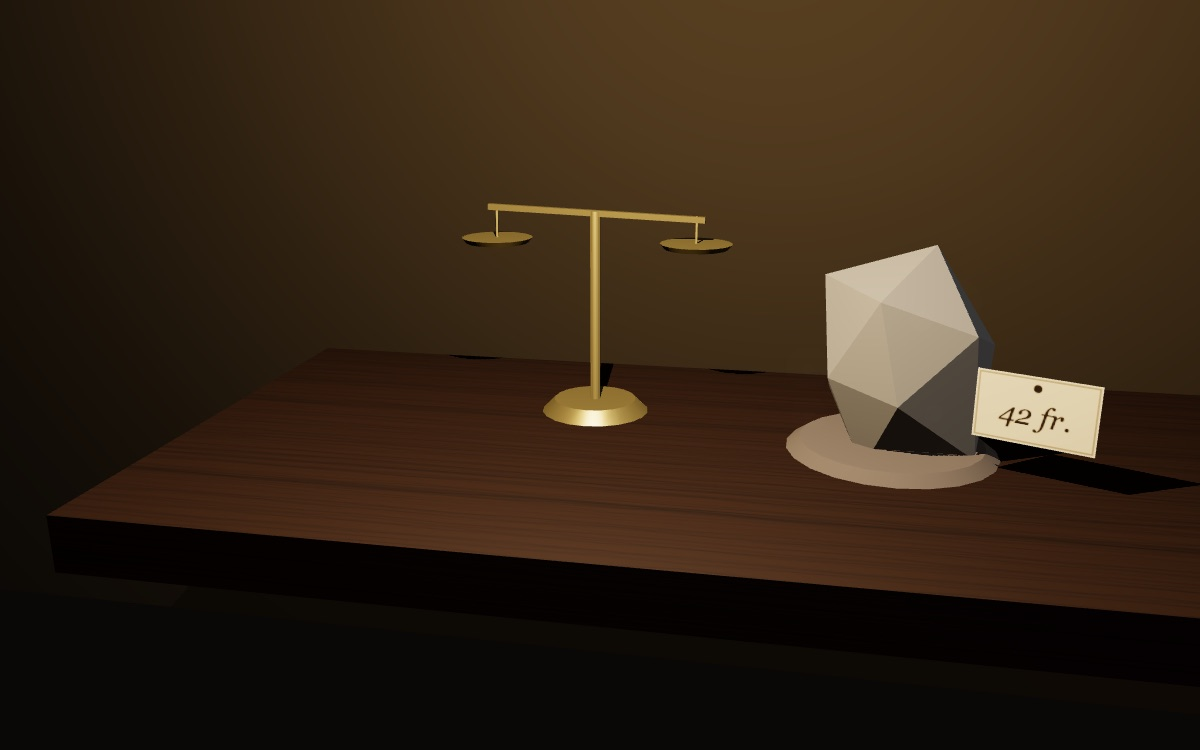
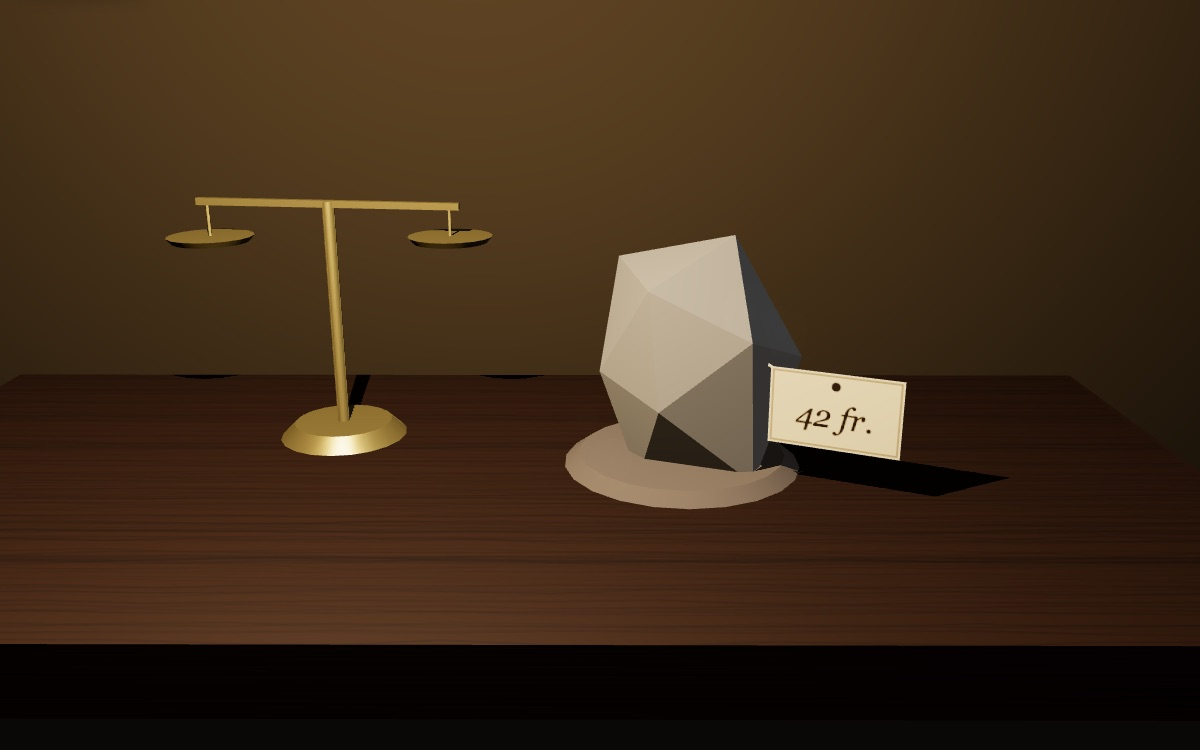
Glossaire : propriete-privee réécrite selon la charte, direction artistique « le mont-de-piété »

diff --git a/glossaire/mondes/propriete-privee/essai.html b/glossaire/mondes/propriete-privee/essai.html
@@ -1,48 +1,80 @@
-<!-- L'ESSAI — le corps de /glossaire/propriete-privee.
-     ⚠ AUCUNE CITATION LIÉE, comme pour /glossaire/argent : la traduction
-     des Manuscrits que ce site sert est celle d'Émile Bottigelli, protégée
-     jusqu'en 2046. Le texte est PARAPHRASÉ et situé, jamais cité entre
-     guillemets. -->
+<!-- L'ESSAI : le corps de /glossaire/propriete-privee.
+     Réécrit en octobre 2026 selon glossaire/mondes/CHARTE.md.
+     AUCUNE CITATION LIÉE : la traduction Bottigelli des Manuscrits est
+     protégée jusqu'en 2046. Le premier et le troisième manuscrit sont
+     PARAPHRASÉS et situés, jamais cités entre guillemets. Les data-etape et
+     les id des sections ne changent pas : la scène lit les premiers, les
+     liens et la recherche les seconds. -->
 
 <section class="nt-sec" data-etape="fait" id="fait">
-<h2>Un fait dont personne ne rend compte</h2>
-<p>Les <i>Manuscrits de 1844</i> s'ouvrent sur un reproche adressé à l'économie politique, et ce reproche est le ressort de tout le cahier. Elle part de la propriété privée&nbsp;: elle en décrit les effets, elle en calcule les lois, elle en tire le salaire, le profit et la rente. Mais elle ne l'explique pas. Elle la pose comme un fait, comme on pose une donnée de la nature, et lorsqu'on lui demande d'où elle vient, elle raconte une histoire — un état originaire, une industrie primitive, une convention — au lieu de l'analyser.</p>
-<p>Marx relève que ce défaut n'est pas accidentel&nbsp;: en admettant la propriété privée comme un présupposé, l'économie politique se prive du moyen de comprendre les rapports dont elle traite, puisque tous en découlent. Elle décrit ainsi les lois de l'enrichissement et de l'appauvrissement sans pouvoir dire pourquoi l'ouvrier devient d'autant plus pauvre qu'il produit plus de richesse&nbsp;; elle constate le fait, elle en fait même sa loi la plus générale, et elle le laisse inexpliqué.</p>
-<p>La démarche de Marx consiste alors à faire ce que personne ne fait&nbsp;: chercher la genèse de la propriété privée dans le rapport que l'économie politique décrit sans l'interroger — le rapport de l'ouvrier à ce qu'il produit. C'est de cette recherche que sort le <a href="/glossaire/travail-aliene">travail aliéné</a>, et c'est de lui que sortira la réponse.</p>
+<h2>Que reproche Marx à l'économie politique&nbsp;?</h2>
+<p class="nt-lead">De partir de la propriété privée sans l'expliquer. Elle en décrit les lois, mais elle la tient pour un fait donné, qu'on n'aurait pas à comprendre.</p>
+<p>Les <i>Manuscrits de 1844</i> sont des cahiers que Marx rédige à Paris en lisant les économistes, Adam Smith en tête. Ils sont restés inédits jusqu'en 1932. Le premier manuscrit est d'abord un relevé&nbsp;: Marx y suit, sur des colonnes parallèles, ce que l'économie politique dit du salaire, du profit du capital et de la rente foncière. Puis, à la fin du cahier, il change de ton. L'économie politique, écrit-il en substance, part du fait de la propriété privée et ne nous l'explique pas. Elle exprime en formules générales ce qui se passe sous ce régime, et ces formules deviennent pour elle des lois&nbsp;; mais elle ne montre pas comment ces lois découlent de la nature même de la propriété privée.</p>
+<p>Le verbe que le traducteur signale en note est <i lang="de">begreifen</i>, saisir dans son concept. L'économie politique décrit sans concevoir. Elle sait que le salaire baisse quand les ouvriers se font concurrence, que les gros capitaux ruinent les petits, que la société finit par se diviser en propriétaires et en ouvriers sans propriété. Elle ne dit pas pourquoi le travail et le capital sont séparés au départ.</p>
+<p>Quand on la presse sur l'origine, elle raconte une histoire. Elle imagine un état originel où l'échange et la division du travail seraient déjà là, et ce récit repousse la question au lieu d'y répondre. Marx compare ce procédé à celui du théologien qui explique le mal par le péché originel&nbsp;: on suppose comme un fait, sous la forme d'un événement passé, ce qu'il fallait expliquer.</p>
+<p>Marx choisit l'autre voie. Il part d'un fait présent, que l'économie politique constate elle-même&nbsp;: l'ouvrier devient d'autant plus pauvre qu'il produit plus de richesse. Ce fait concerne le rapport de l'ouvrier à ce qu'il produit, et c'est dans ce rapport que Marx va chercher la genèse de la propriété privée. Son analyse porte le nom de <a href="/glossaire/travail-aliene">travail aliéné</a>, et la réponse à la question de l'origine en sort.</p>
 </section>
 
 <section class="nt-sec" data-etape="renversement" id="renversement">
-<h2>Le renversement&nbsp;: elle est le produit, non la cause</h2>
-<p>La proposition qui fait de ces cahiers autre chose qu'une critique morale du capitalisme tient en une phrase, et il faut en peser chaque terme&nbsp;: la propriété privée n'est pas la cause du travail aliéné, elle en est la conséquence. On a d'abord un rapport — celui d'un homme à son activité et à son produit, où l'un et l'autre lui deviennent étrangers — et la propriété privée est la forme dans laquelle ce rapport s'exprime et se fixe.</p>
-<p>Marx éclaire ce renversement par une comparaison qu'il faut restituer, car elle dit tout&nbsp;: les dieux ne sont pas à l'origine de l'égarement de l'esprit humain, ils en sont l'effet, quoiqu'ils deviennent ensuite une cause à leur tour. Il en va de même ici. La propriété privée apparaît comme la conséquence du travail aliéné&nbsp;; puis, une fois posée, elle agit sur lui, le reproduit et le renforce. Le rapport est donc réciproque, et c'est ce qui le rend difficile à voir&nbsp;: quand on entre dans un cercle en marche, chaque terme paraît expliqué par l'autre.</p>
-<p>L'enjeu de ce renversement dépasse de loin l'érudition. S'il est juste, alors la propriété privée n'est pas ce qu'il faut abolir en premier lieu comme si tout en dépendait&nbsp;: elle est le symptôme d'un rapport de production, et c'est ce rapport qu'il faut transformer. Marx en tire immédiatement une conséquence politique qu'il formule sans détour&nbsp;: c'est de l'émancipation des travailleurs que dépend l'émancipation générale, non parce qu'ils seraient plus dignes, mais parce que toute la servitude humaine est impliquée dans leur rapport à la production.</p>
+<h2>La propriété privée est-elle la cause du travail aliéné, ou son effet&nbsp;?</h2>
+<p class="nt-lead">Son effet d'abord. Marx soutient que la propriété privée résulte du travail aliéné, puis qu'une fois posée elle devient le moyen par lequel le travail continue de s'aliéner.</p>
+<p>L'analyse du travail aliéné établit que le produit de l'ouvrier lui échappe, que son activité ne lui appartient pas et qu'elle profite à un autre. Marx en tire une conclusion sur la propriété privée. Celle-ci, qui a l'air d'être la cause de cette situation, en est plutôt la conséquence. Il y a d'abord un rapport, celui d'un homme à son travail et à ce qu'il produit&nbsp;; la propriété privée est la forme dans laquelle ce rapport se fixe et devient durable.</p>
+<p>Marx éclaire ce renversement par une comparaison avec la religion. Les dieux, dit-il, sont à l'origine l'effet de l'égarement de l'esprit humain, et non sa cause. Une fois installés, ils agissent pourtant sur les hommes, au point de sembler les gouverner. Il en va de même ici&nbsp;: le rapport entre propriété privée et travail aliéné devient plus tard une action réciproque. Au terme de son développement, la propriété privée laisse voir les deux faces de son secret. Elle est le produit du travail aliéné, et elle est aussi le moyen par lequel le travail s'aliène.</p>
+<p>Cette réciprocité explique qu'on se trompe si facilement. Quand on entre dans un cercle déjà en marche, chaque terme semble expliqué par l'autre, et l'on prend pour l'origine ce qui n'est qu'un relais. Marx en tire aussitôt des conséquences. Le salaire et la propriété privée ont la même source, puisque le salaire suppose un produit qui ne revient pas à celui qui l'a fait. Une hausse des salaires arrachée par la force ne ferait donc que mieux payer des esclaves&nbsp;; et l'égalité des salaires que réclamait Proudhon étendrait à tous le rapport de l'ouvrier actuel à son travail, sans le changer.</p>
+<p>Une conséquence politique suit. Si toute servitude est impliquée dans le rapport de l'ouvrier à la production, et si les autres rapports de servitude n'en sont que des variantes, alors l'émancipation des ouvriers n'est pas l'affaire d'une seule classe. Elle est la forme politique de l'émancipation universelle de l'homme.</p>
 </section>
 
 <section class="nt-sec" data-etape="avoir" id="avoir">
-<h2>La distinction qui fait le concept&nbsp;: le sens de l'avoir</h2>
-<p>Le troisième manuscrit reprend la question sur un autre terrain, et c'est là que le concept devient tangible. Marx y observe que la propriété privée nous a rendus si stupides et si bornés qu'un objet ne nous paraît nôtre que lorsque nous l'avons — qu'il existe pour nous comme capital, ou qu'il est directement mangé, bu, porté, habité, bref utilisé. Tous les sens physiques et intellectuels se trouvent remplacés par un seul&nbsp;: le sens de l'avoir.</p>
-<p>Il faut saisir ce que cette formule a de précis. Elle ne dit pas que les propriétaires sont avides&nbsp;; elle dit qu'un mode entier de rapport au monde s'est substitué à tous les autres. Voir, entendre, sentir, penser, aimer — chacune de ces manières d'être en relation avec un objet suppose une capacité déterminée et donne accès à quelque chose de déterminé. La possession, elle, ne suppose rien et ne donne accès qu'à une chose&nbsp;: le fait que l'objet soit à moi.</p>
-<p>Marx en donne un exemple qui a la vertu de rendre l'abstraction sensible, et que nous reprenons parce qu'il est le cœur de la page. Le marchand de minéraux, dit-il, ne voit pas la beauté ni la nature propre du minéral&nbsp;: il en voit la valeur marchande. Il a bien un œil pour la pierre, mais un œil qui ne perçoit d'elle qu'une grandeur. Ce n'est pas qu'il soit insensible&nbsp;; c'est que son rapport à l'objet est devenu celui d'un sens unique, et que ce sens ne connaît que des quantités.</p>
+<h2>Qu'est-ce que le «&nbsp;sens de l'avoir&nbsp;»&nbsp;?</h2>
+<p class="nt-lead">Un rapport au monde qui a remplacé tous les autres. Sous la propriété privée, un objet ne nous semble nôtre que lorsque nous le possédons ou que nous en usons.</p>
+<p>Le troisième manuscrit reprend la question sur un autre terrain, celui des sens. La propriété privée, dit Marx, nous a rendus si bornés qu'un objet n'est nôtre que si nous l'avons&nbsp;: s'il existe pour nous comme capital, ou s'il est possédé directement, mangé, bu, porté, habité. Même ces usages, la propriété privée ne les compte que comme des moyens de subsistance au service d'une vie qui est elle-même la sienne, faite de travail et d'accumulation. À la place de tous les sens physiques et intellectuels est apparue leur aliénation commune, le sens de l'avoir.</p>
+<p>La formule vise un mode de relation aux choses que chacun partage sous ce régime, avide ou non. Voir, entendre, goûter, penser, aimer&nbsp;: chacune de ces manières d'être en rapport avec un objet suppose une capacité, et chacune donne accès à quelque chose de cet objet. Le regard trouve une forme, l'oreille une musique. La possession ne suppose aucune capacité et ne donne accès qu'à une chose, le fait que l'objet soit à moi. Marx renvoie lui-même, entre parenthèses, à Moses Hess pour cette catégorie de l'avoir.</p>
+<p>La photographie en tête de page montre ce rapport à l'œuvre. Dans ce magasin du Mont-de-Piété de Paris, où l'on prêtait de l'argent contre un objet laissé en gage, une mandoline et des cuivres pendent à côté de parapluies et d'une bassinoire. Chacun porte une étiquette. Pour leurs propriétaires, ils étaient de la musique, de l'abri, de la chaleur&nbsp;; ici, ils ne sont plus que des avoirs, que rien ne distingue sinon leur montant.</p>
+<div class="nt-ex">
+<p class="nt-ex-t">Un exemple</p>
+<p>Marx donne lui-même le sien. Celui qui fait commerce de minéraux ne voit que leur valeur marchande. Il ne voit ni leur beauté ni leur nature propre&nbsp;: il n'a pas le sens minéralogique. Prenons un grenat dans ses mains. Il en estime le poids, la pureté, la rareté, et il en tire un prix. Ce qu'il en perçoit tient sur l'étiquette.</p>
+<p>Un minéralogiste voit autre chose dans la même pierre&nbsp;: la forme de son cristal, la manière dont elle se clive, la couleur qu'elle doit à sa composition. La planche ci-dessous, publiée en 1859, dessine chaque pierre à côté du schéma de son cristal. Le marchand n'est pas aveugle&nbsp;; il a un œil pour la pierre. Mais cet œil ne perçoit plus d'elle qu'une grandeur.</p>
+</div>
+<div data-planche="mineraux"></div>
 </section>
 
 <section class="nt-sec" data-etape="sens" id="sens">
-<h2>Le mécanisme&nbsp;: pourquoi un sens se forme, et pourquoi il se perd</h2>
-<p>La suite du raisonnement est peut-être ce que 1844 a de plus original, et elle explique pourquoi Marx tient l'appauvrissement des sens pour un fait objectif et non pour une plainte esthétique. Un sens, écrit-il en substance, ne se donne pas&nbsp;: il se forme. L'oreille musicale se fait par la musique&nbsp;; l'œil qui perçoit la beauté d'une forme se fait par les formes&nbsp;; la faim qui se satisfait de viande crue avec les mains n'est pas la même faim que celle qui se satisfait à table. Les cinq sens sont donc, dit-il, le produit de toute l'histoire humaine.</p>
-<p>Si les sens sont un produit, alors ils dépendent des rapports dans lesquels ils se forment, et ils peuvent aussi bien se développer que s'atrophier. Sous le règne de la propriété privée, le rapport aux objets est réduit à l'avoir&nbsp;; les capacités qui n'y servent pas ne se cultivent plus, et ce qui ne se cultive pas s'éteint. L'homme accablé de soucis, remarque Marx, n'a aucun sens pour le plus beau des spectacles&nbsp;: ce n'est pas qu'il refuse, c'est qu'il n'a plus l'organe.</p>
-<p>On aperçoit alors la portée du concept, qui n'est ni juridique ni économique au sens étroit. La propriété privée, comme rapport, ne se contente pas de distribuer des choses entre des personnes&nbsp;: elle façonne les personnes elles-mêmes en réduisant l'éventail des rapports qu'elles peuvent entretenir. C'est en ce sens que Marx écrit qu'elle nous a rendus stupides — le mot est fort, mais il est descriptif&nbsp;: un être qui n'a plus qu'un sens perçoit moins.</p>
+<h2>Pourquoi un sens peut-il s'appauvrir&nbsp;?</h2>
+<p class="nt-lead">Parce qu'un sens se forme au contact de ses objets. Marx tient la formation des cinq sens pour le travail de toute l'histoire passée, et ce qu'une histoire a formé, une autre peut le laisser dépérir.</p>
+<p>C'est ce qui permet à Marx de décrire l'appauvrissement des sens comme un fait. La musique, dit-il, éveille le sens musical&nbsp;: pour une oreille qui n'est pas musicienne, la plus belle musique n'a aucun sens. L'œil qui perçoit la beauté d'une forme s'est formé devant des formes. Cela vaut des cinq sens, et aussi de ce que Marx appelle les sens pratiques, comme la volonté ou l'amour. Aucun n'est donné tout fait&nbsp;; chacun naît de l'existence de son objet, dans une nature transformée par les hommes.</p>
+<p>Il en découle qu'un sens dépend des conditions dans lesquelles il s'exerce. Marx en donne trois cas, dans le même passage. Pour l'homme qui meurt de faim, la forme humaine de l'aliment n'existe pas&nbsp;: il mangerait la nourriture la plus grossière sans faire de différence. L'homme accablé de soucis et de besoins n'a pas de sens pour le plus beau spectacle. Le marchand de minéraux, enfin, ne voit que la valeur. Dans les trois cas, une nécessité extérieure réduit le rapport à l'objet à une seule dimension, et la capacité qui ne s'exerce plus s'efface.</p>
+<p>La propriété privée, comprise comme rapport, répartit donc des choses entre des personnes, et elle façonne aussi ces personnes, en réduisant l'éventail des rapports qu'elles peuvent avoir avec le monde. C'est en ce sens que Marx dit qu'elle nous a rendus bornés&nbsp;: le mot est dur, mais il décrit. Un être qui n'a plus qu'un sens perçoit moins.</p>
+<p>Marx ajoute pourtant une remarque qui interdit d'en faire une nostalgie. L'être humain, écrit-il, devait être réduit à cette pauvreté absolue pour tirer de lui-même sa richesse intérieure. L'appauvrissement est un moment d'un mouvement, et le texte ne regrette aucun âge d'or.</p>
 </section>
 
 <section class="nt-sec" data-etape="ouvre" id="ouvre">
-<h2>Ce que le concept ouvre&nbsp;: l'émancipation des sens</h2>
-<p>De ce diagnostic, Marx tire une définition de ce que serait le dépassement, et elle surprend qui attend un programme de redistribution. La suppression positive de la propriété privée, écrit-il, est l'émancipation complète de toutes les qualités et de tous les sens humains&nbsp;: ce n'est pas d'abord un transfert de biens, c'est la restitution d'un rapport au monde où chaque objet serait de nouveau saisi par la capacité qui lui correspond.</p>
-<p>Il faut noter la prudence avec laquelle il distingue cette suppression positive d'une autre, qu'il refuse et qu'il nomme <a href="/glossaire/communisme">communisme grossier</a>. Celle-ci se contente d'universaliser la propriété privée en faisant de la communauté le propriétaire général&nbsp;: le rapport d'avoir demeure, et il est seulement étendu. Le rapport que Marx vise est d'une autre espèce, et il l'énonce comme une condition&nbsp;: que l'homme ne se perde pas dans son objet, et que cet objet lui devienne humain, c'est-à-dire saisissable par un sens formé.</p>
-<p>Nous ajoutons que ce passage donne rétrospectivement leur sens aux pages sur l'<a href="/glossaire/argent">argent</a> qui suivent dans le même cahier. L'argent est l'objet où le sens de l'avoir atteint sa forme pure, puisqu'il n'a lui-même aucune qualité sensible et qu'il donne accès à toutes. Les deux fragments sont le même argument, pris une fois par l'objet et une fois par le sens.</p>
+<h2>Que serait le dépassement de la propriété privée&nbsp;?</h2>
+<p class="nt-lead">Marx le définit comme l'émancipation de tous les sens et de toutes les qualités humaines. Le changement porte sur le rapport aux choses autant que sur leur propriétaire.</p>
+<p>On attend un programme de redistribution, et le troisième manuscrit répond par une théorie des sens. La suppression positive de la propriété privée, dit Marx, ne doit pas être comprise seulement comme une jouissance immédiate et exclusive, au sens de la possession. L'homme s'approprie son être d'une manière universelle, en homme total&nbsp;: la vue, l'ouïe, l'odorat, le goût, le toucher, la pensée, la contemplation, la volonté, l'amour sont autant de manières de s'approprier un objet. L'œil devient un œil humain quand son objet devient un objet humain, fait par les hommes et pour eux.</p>
+<p>Marx distingue avec soin ce dépassement d'une autre forme, qu'il appelle le <a href="/glossaire/communisme">communisme grossier</a>. Celui-ci se contente de généraliser la propriété privée. Il naît de l'envie à l'égard des plus riches et du goût du nivellement, il prend pour mesure un minimum, et il se reconnaît à la négation abstraite de toute culture&nbsp;: un retour à la simplicité de l'homme pauvre et sans besoins. Le rapport d'avoir y demeure, il passe seulement à un autre titulaire. Pour Marx, c'est la propriété privée qui se fait passer pour une communauté.</p>
+<div class="nt-ex">
+<p class="nt-ex-t">Un exemple</p>
+<p>Imaginons qu'on confisque la collection du marchand de minéraux pour la distribuer également entre tous. Chacun reçoit sa part de pierres, et chacun les estime comme le marchand les estimait, au poids et au prix. Rien n'a été dépassé&nbsp;: la propriété a seulement changé de mains.</p>
+<p>Le dépassement que décrit Marx porterait sur l'autre terme, le regard. Il supposerait que chacun puisse former en lui le sens qui voit dans une pierre sa forme et sa couleur, et non plus seulement sa valeur. L'exemple est le nôtre&nbsp;; la distinction est celle du troisième manuscrit.</p>
+</div>
+<p>Les pages sur l'<a href="/glossaire/argent">argent</a>, un peu plus loin dans le même cahier, donnent la forme pure de ce que décrit le sens de l'avoir. L'argent possède la qualité de tout acheter, et il n'a lui-même aucune qualité sensible&nbsp;: il est l'objet qu'on ne peut que posséder. Les deux fragments forment un seul argument, pris une fois du côté du sens, une fois du côté de l'objet.</p>
 </section>
 
 <section class="nt-sec" data-etape="lectures" id="lectures">
-<h2>Lectures, et contresens</h2>
-<p>Le premier contresens confond la propriété privée dont il est question ici avec le fait de posséder des affaires. Marx ne vise ni la brosse à dents ni la maison de qui l'habite&nbsp;: il vise un rapport de production dans lequel les moyens de produire appartiennent à d'autres que ceux qui produisent. Le glissement est ancien et il est commode&nbsp;; il rend la thèse absurde, ce qui est sa fonction.</p>
-<p>Le deuxième contresens est plus intéressant, parce qu'il est commis par des lecteurs sérieux&nbsp;: on prend le renversement de 1844 pour la thèse définitive de Marx sur l'origine de la propriété privée. Or ces cahiers cherchent une genèse conceptuelle, non historique&nbsp;: ils montrent que la propriété privée s'explique par le travail aliéné, non par quels événements elle s'est instituée. La réponse historique viendra vingt ans plus tard, et elle a un autre nom — l'<a href="/glossaire/accumulation-primitive">accumulation primitive</a>, qui décrit la séparation réelle des producteurs d'avec leurs moyens de production, avec ses dates et ses statuts. Les deux textes ne se contredisent pas&nbsp;: ils ne répondent pas à la même question.</p>
-<p>Le troisième contresens fait de l'émancipation des sens une utopie esthétique, une sorte de supplément d'âme réservé aux temps meilleurs. C'est méconnaître que Marx en fait un critère, et un critère exigeant&nbsp;: la richesse d'une société se mesure à l'étendue des rapports que ses membres peuvent réellement entretenir, chacun demandant une capacité formée. Ce critère n'a rien de vague&nbsp;; il permet de juger, et il ne juge pas en faveur d'une société qui produit beaucoup et ne forme rien.</p>
-<p>Reste enfin le statut du texte, qu'il faut rappeler ici comme sur les autres notions de 1844. Ces cahiers sont un chantier, laissé inédit jusqu'en 1932. Nous les lisons comme une recherche dont les résultats sont inégalement stabilisés — et le renversement de la propriété privée en produit du travail aliéné nous paraît en être le résultat le plus solide, parce que c'est celui que toute l'œuvre ultérieure suppose.</p>
+<h2>Comment lire ce concept, et quels contresens éviter&nbsp;?</h2>
+<p class="nt-lead">Les <i>Manuscrits</i> sont un chantier, et Marx y cherche une genèse conceptuelle de la propriété privée. Trois contresens courants viennent de ce qu'on leur prête une autre question.</p>
+<p>Ces cahiers ne sont pas un livre achevé. Marx ne les a pas publiés, et leur vocabulaire, celui de l'essence humaine, vient de Feuerbach et de Hegel. Les résultats y sont inégalement stabilisés. Le renversement de la propriété privée en produit du travail aliéné nous paraît en être le plus solide, parce que toute l'œuvre ultérieure le suppose&nbsp;: <i>Le Capital</i> décrira la séparation du travailleur et de ses moyens de travail sans parler d'essence humaine, mais en gardant l'idée que la propriété du capital est le résultat d'un rapport de production.</p>
+<p>Deux textes plus tardifs répondent à des questions que 1844 laisse ouvertes. Le <i>Manifeste</i> de 1848 précise de quelle propriété il s'agit&nbsp;: les communistes, y lit-on, n'enlèvent à personne le pouvoir de s'approprier sa part des produits sociaux, seulement celui d'assujettir par là le travail d'autrui (voir <a href="/glossaire/propriete-bourgeoise">propriété bourgeoise</a>). Le Livre I du <i>Capital</i> raconte, sous le nom d'<a href="/glossaire/accumulation-primitive">accumulation primitive</a>, comment les producteurs ont été séparés de leurs moyens de production, avec des dates et des lois.</p>
+<div class="nt-cs">
+<p><span class="nt-cs-k">On lit souvent</span> Marx voudrait abolir toute possession, jusqu'aux affaires personnelles, la maison qu'on habite ou les objets dont on se sert.</p>
+<p><span class="nt-cs-k">Ce que dit le texte</span> La propriété privée des <i>Manuscrits</i> est un rapport de production, celui où le produit du travail appartient à un autre que celui qui l'a fait. Le troisième manuscrit critique le sens de l'avoir&nbsp;; il ne condamne ni l'usage des choses ni leur jouissance, qu'il veut au contraire élargir.</p>
+</div>
+<div class="nt-cs">
+<p><span class="nt-cs-k">On lit souvent</span> Les <i>Manuscrits</i> donneraient l'histoire de la propriété privée&nbsp;: elle serait née, à un moment daté, du travail aliéné.</p>
+<p><span class="nt-cs-k">Ce que dit le texte</span> Marx y cherche une genèse conceptuelle, qui dit de quel rapport la propriété privée est la forme. Il refuse même expressément de partir d'un état originel imaginaire. La réponse historique viendra plus de vingt ans après, avec l'accumulation primitive, et les deux textes ne répondent pas à la même question.</p>
+</div>
+<div class="nt-cs">
+<p><span class="nt-cs-k">On lit souvent</span> L'émancipation des sens serait une utopie d'esthète, un supplément d'âme pour des temps meilleurs, voire un éloge du renoncement aux biens.</p>
+<p><span class="nt-cs-k">Ce que dit le texte</span> Marx en fait un critère&nbsp;: la richesse d'une société se mesure à l'étendue des rapports au monde que ses membres peuvent réellement avoir. Il rejette le renoncement, puisqu'il reproche au communisme grossier son retour à la simplicité de l'homme sans besoins.</p>
+</div>
 </section>

diff --git a/glossaire/mondes/propriete-privee/monde.js b/glossaire/mondes/propriete-privee/monde.js
@@ -201,18 +201,17 @@ window.LM_MONDE = function (canvas) {
 
     lampe.intensity = 3.0 * (1 + 0.03 * Math.sin(T * 7.3));
 
-    /* la caméra. L'ensemble fait à peu près une unité et quart ; à 38° et en
-       paysage la largeur vue vaut 1,07 fois la distance, et la colonne de
-       texte prend 43 % — d'où deux unités et demie, et un décalage de 0,52. */
+    /* la caméra. La scène est une FIGURE en bas de page depuis octobre 2026 :
+       plus de colonne de texte à côté d'elle, donc plus de visée décalée à
+       gauche du sujet (elle rejetait la pierre au bord droit du cadre). On
+       vise la pierre de près, puis le milieu de l'ensemble balance, pierre,
+       étiquette, qui va de la balance (CX - 0,70) à l'étiquette (CX + 0,38). */
     var q = ss(0, 1, Math.min(1, G / 1.8));
-    var cx = lerp(0.46, 0.10, q), cy = lerp(0.52, 0.84, q), cz = lerp(1.05, 2.30, q);
-    cz = lerp(cz, 2.55, st.recul); cy = lerp(cy, 0.96, st.recul);
-    var camA = V3(lerp(CX, CX - 0.235, q), lerp(0.20, 0.14, q), CZ);
+    var cx = lerp(0.46, CX - 0.16, q), cy = lerp(0.52, 0.80, q), cz = lerp(1.05, 1.95, q);
+    cz = lerp(cz, 2.25, st.recul); cy = lerp(cy, 0.92, st.recul);
+    var camA = V3(lerp(CX, CX - 0.16, q), lerp(0.20, 0.18, q), CZ);
     camera.position.set(cx + 0.012 * Math.sin(T * 0.29), cy + 0.008 * Math.sin(T * 0.37), cz);
-    var dist = camera.position.distanceTo(camA);
-    var fwd = new THREE.Vector3().subVectors(camA, camera.position).normalize();
-    var right = new THREE.Vector3().crossVectors(fwd, V3(0, 1, 0)).normalize();
-    aim.copy(camA).addScaledVector(right, -Math.min(0.26 * dist, 0.42));
+    aim.copy(camA);
     camera.lookAt(aim);
     render();
   }
